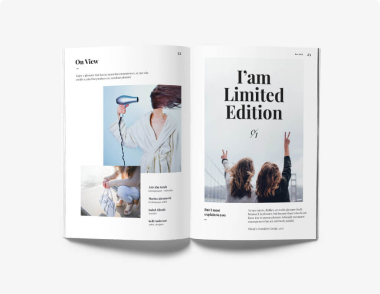
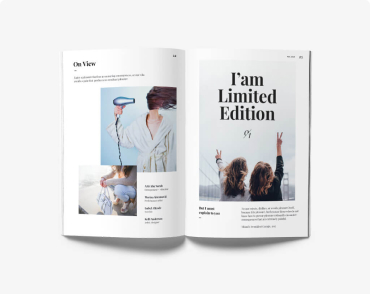
newimages_stylespresets
css changes - redownload images
styles basic presets

diff --git a/css/common.css b/css/common.css
@@ -26,6 +26,27 @@ html {
 *::after {
   box-sizing: inherit;
 }
+h1,
+h2,
+h3,
+h4,
+h5,
+h6 {
+  margin: 0;
+}
+p {
+  margin: 0;
+}
+img {
+  display: block;
+  max-width: 100%;
+  height: auto;
+}
+ul {
+  padding: 0;
+  margin: 0;
+  list-style: none;
+}
 body {
   background-color: var(--white-color);
   color: var(--main-font-color);
